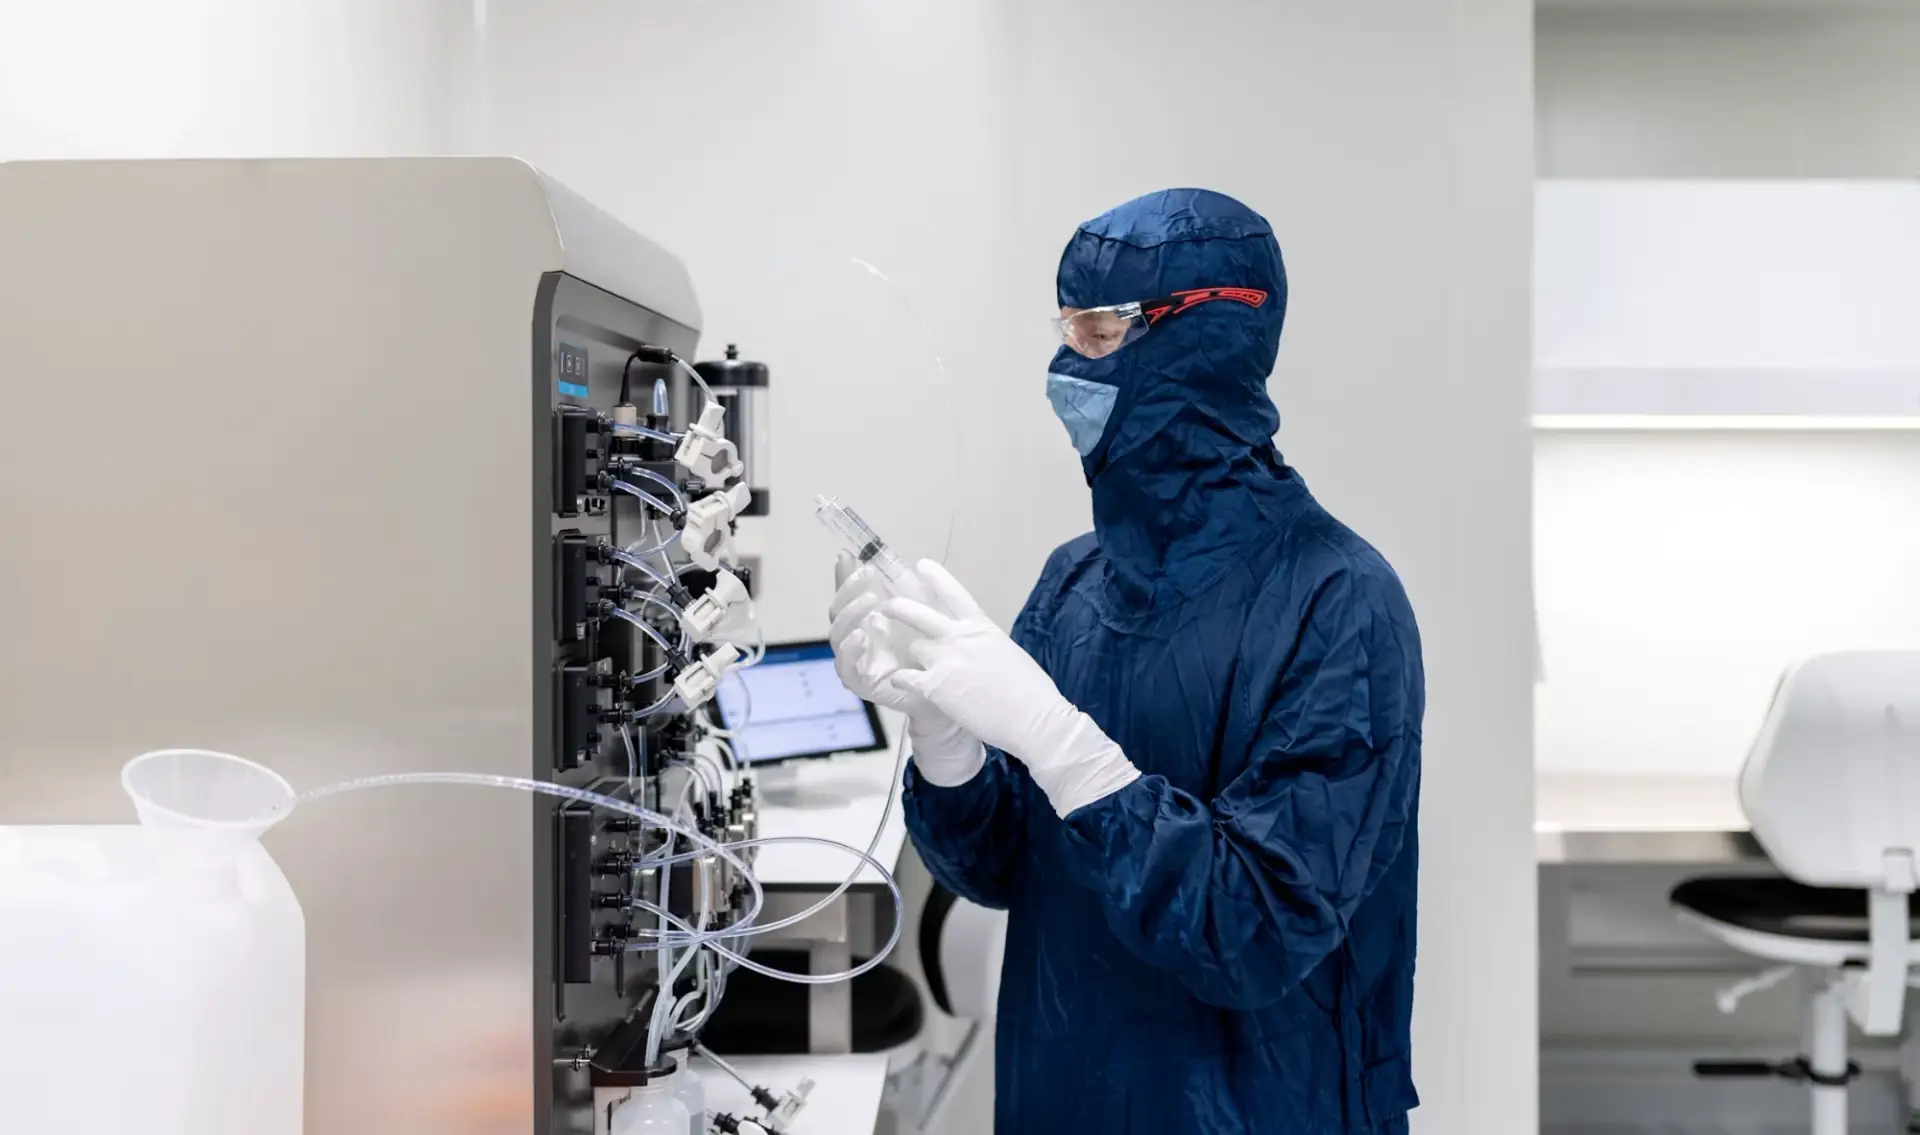
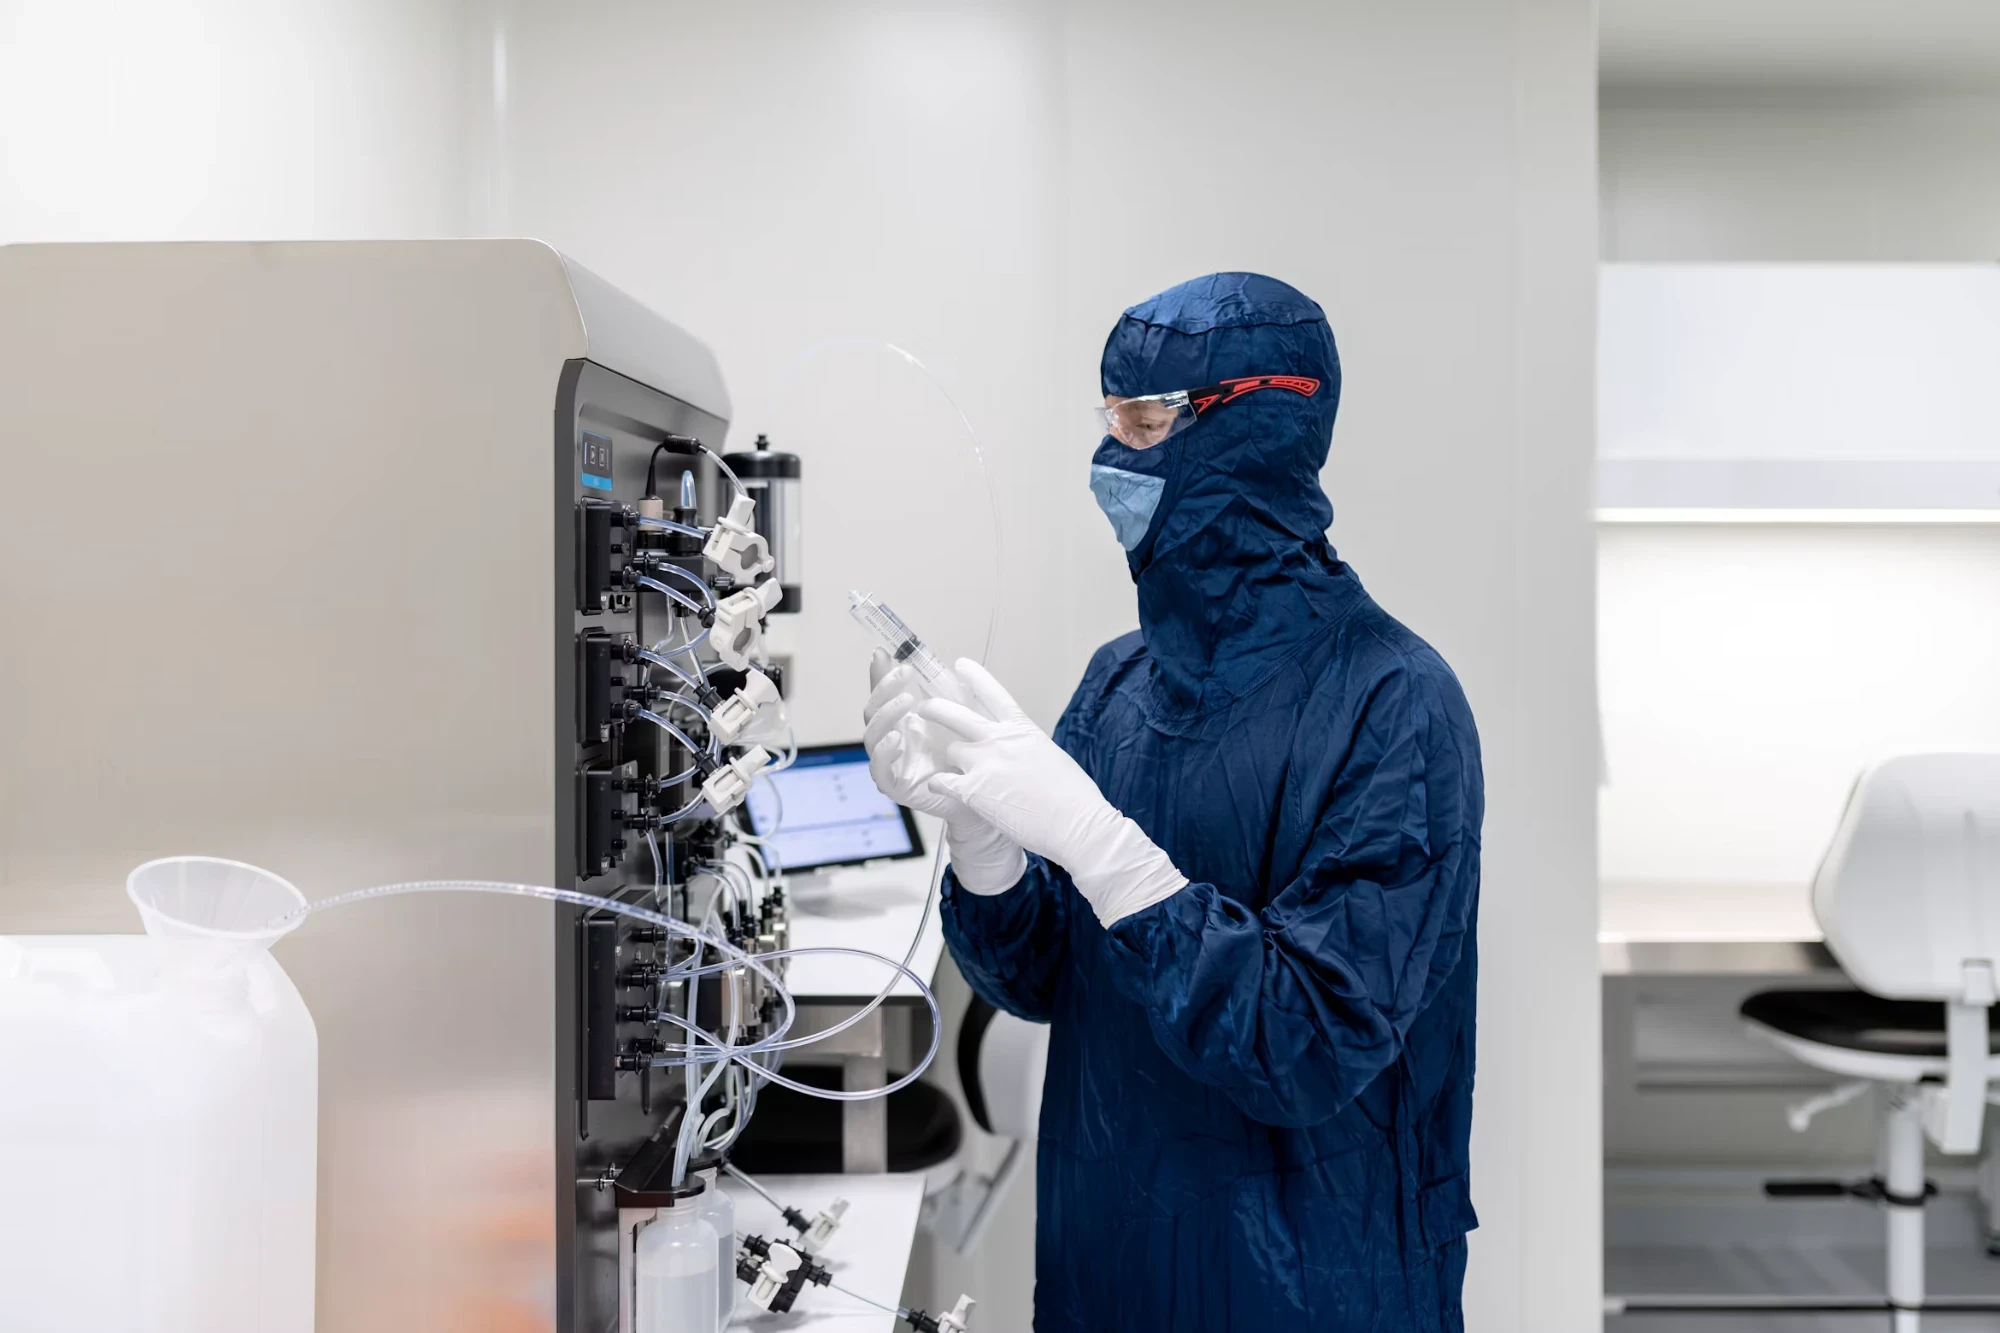
Header photos at full resolution and high quality (no longer soft); Mindray monitor photo for About

diff --git a/src/lib/site-content.ts b/src/lib/site-content.ts
@@ -134,7 +134,7 @@ export const defaultEsgPillars: EsgPillar[] = [
 ];
 
 export const defaultPageHeaders: Record<PageKey, PageHeader> = {
-  about: { title: 'Purveyor of excellence', highlight: 'in healthcare', lead: 'FLOKEFAMA is a multiple award-winning company and one of the most trusted medical equipment suppliers in Ghana.', image: '/images/headers/about-microscope.webp', position: '50% 45%', veil: 'strong' },
+  about: { title: 'Purveyor of excellence', highlight: 'in healthcare', lead: 'FLOKEFAMA is a multiple award-winning company and one of the most trusted medical equipment suppliers in Ghana.', image: '/images/headers/about-monitor.webp', position: '40% 50%', lockImage: true },
   services: { title: 'We go beyond just supplying', highlight: 'medical equipment', lead: 'End-to-end solutions, from procurement and installation to training and maintenance.', image: '/images/headers/services-technician.webp', position: '50% 40%', veil: 'strong', lockImage: true },
   shop: { title: 'Clinical-grade equipment.', highlight: 'Instantly searchable.', lead: '{count} products for hospitals and laboratories, with installation, training and after-sales support on everything we supply.', image: '/images/headers/shop.webp', position: '50% 35%' },
   events: { title: 'Moments that', highlight: 'bring us together', lead: 'Celebrations, community programmes and industry events from across the Flokefama family.', image: '/images/headers/events-parade.webp', position: '50% 45%' },
